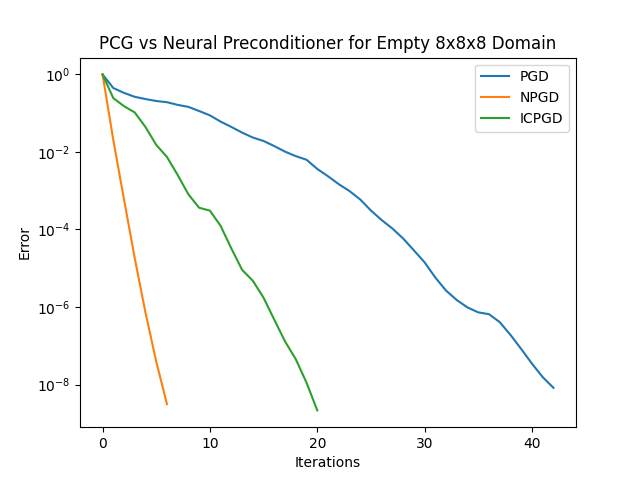
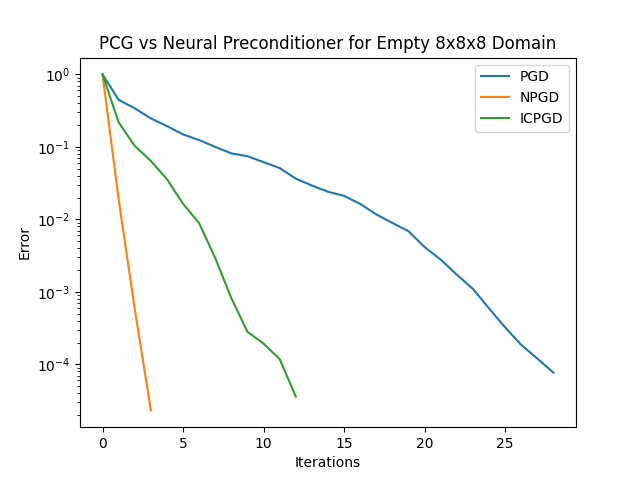
clean up training and evaluation

diff --git a/src/train.py b/src/train.py
@@ -4,9 +4,8 @@ import numpy as np
 import matplotlib.pyplot as plt
 import torch
 import scipy.sparse
-import torchsummary
 
-from src.vector_dataset import *
+from vector_dataset import *
 from torch.utils.data import DataLoader
 from torch.utils.data import Dataset
 from torchvision.transforms import ToTensor
@@ -233,6 +232,10 @@ if __name__ == "__main__":
     # parse --demo flag, if not there FLAGS.demo == False
     parser = argparse.ArgumentParser()
     parser.add_argument("-e", "--existing", action="store_true", default = False)
+    parser.add_argument("-b", "--batch", type = int, default = 4)
+    parser.add_argument("-c", "--epochs", type = int, default = 5)
+    parser.add_argument("-l", "--lr", type = float, default = 1e-4)
+
     FLAGS, unparsed = parser.parse_known_args()
 
     
@@ -240,8 +243,8 @@ if __name__ == "__main__":
     dim_x, dim_y, dim_z = 8, 8, 8
     
     # make models directory
-    if not os.path.exists("./models/"):
-        os.makedirs("./models/")
+    if not os.path.exists("../models/"):
+        os.makedirs("../models/")
     
     # define loss function
     loss_fn = cgd_loss_fn  # use paper defined loss
@@ -250,13 +253,14 @@ if __name__ == "__main__":
 
     # tweak these constants as you see fit, or get them through 'argparse'
     DEVICE = "cuda" if torch.cuda.is_available() else "cpu"
-    BATCH_SIZE = 1200
-    EPOCHS = 5
+    BATCH_SIZE = FLAGS.batch
+    EPOCHS = FLAGS.epochs
+    LR = FLAGS.lr
 
     domain_name = f"A_matrix_{dim_x}_{dim_y}_{dim_z}_"
 
     dataset = VectorDataset()
-    train_dataset, test_dataset = torch.utils.data.random_split(dataset, [0.95, 0.05]) 
+    train_dataset, test_dataset = torch.utils.data.random_split(dataset, [0.8, 0.2]) 
     train_dataloader = DataLoader(train_dataset, batch_size=BATCH_SIZE, num_workers=4, shuffle = True)
     test_dataloader =  DataLoader(test_dataset, batch_size=1, num_workers=4, shuffle = True)
     print("Dataset Loaded")
@@ -270,22 +274,15 @@ if __name__ == "__main__":
 
     torch.autograd.set_detect_anomaly(True)
 
-    # if(FLAGS.existing):
-    #     models_dir = f"./models/"
-    #     model_fn = "8_8_8_grid.pth"
-    #     model = torch.load(models_dir + model_fn).to(DEVICE)
-    # else:
-    #     model = CNN(dim_x, dim_y, dim_z).to(DEVICE)
-
     model = CNN(dim_x, dim_y, dim_z).to(DEVICE)
 
     if(FLAGS.existing):
-        models_dir = f"./models/"
-        model_fn = f"{dim_x}_{dim_y}_{dim_z}_grid_state_final_stg2.pth"
+        models_dir = f"../models/"
+        model_fn = f"{dim_x}_{dim_y}_{dim_z}_grid_state_16_mod.pth"
         model.load_state_dict(torch.load(models_dir + model_fn))
     
 
-    optimizer = torch.optim.AdamW(model.parameters(), lr=1e-4, amsgrad = True, eps=1e-10)
+    optimizer = torch.optim.AdamW(model.parameters(), lr=LR, amsgrad = True, eps=1e-10)
     scheduler = torch.optim.lr_scheduler.StepLR(optimizer, step_size=1, gamma=1)
     test_loss, train_loss = [], []
 
@@ -305,7 +302,7 @@ if __name__ == "__main__":
 
 
     # save the model
-    torch.save(model.state_dict(), f"./models/{dim_x}_{dim_y}_{dim_z}_grid_state_final_stg2.pth")
+    torch.save(model.state_dict(), f"../models/{dim_x}_{dim_y}_{dim_z}_grid_state_16_mod.pth")
     fig, axs = plt.subplots(1, 2, figsize=(15, 15))
     axs[0].plot(np.arange(1, len(train_loss) + 1), train_loss)
     axs[0].set_title("Train Loss")
@@ -317,4 +314,4 @@ if __name__ == "__main__":
     axs[1].set_xlabel("Epoch")
     axs[1].set_ylabel("Average Loss")
     plt.show()
-    fig.savefig("./test_train_loss.jpg")
+    fig.savefig("../plots/test_train_loss.jpg")

diff --git a/src/eval.py b/src/eval.py
@@ -4,8 +4,9 @@ import numpy as np
 import scipy
 import random
 import matplotlib.pyplot as plt
-from src.train import *
+from train import *
 import time
+import argparse
 
 
 def icholesky(A):
@@ -125,12 +126,19 @@ def neural_pgd(A, b:torch.Tensor, tol = 1e-16, max_it = 100):
 
 
 if __name__ == "__main__":
+    parser = argparse.ArgumentParser()
+    parser.add_argument("-t", "--tol", dest = "tol", type = float, default = 1e-4)
+    parser.add_argument("-d", "--domain", dest = "domain_type", type = str, default = "empty")
+    parser.add_argument("-f", "--filling_fraction", dest = "filling_fraction", type = float, default = 0)
+    FLAGS, unparsed = parser.parse_known_args()
+    
+    
     dim_x, dim_y, dim_z = 8, 8, 8
     DEVICE = "cuda" if torch.cuda.is_available() else "cpu"
     torch.set_default_dtype(torch.double)
 
-    domain_type = "random"
-    filling_fraction = 0.35
+    domain_type = FLAGS.domain_type
+    filling_fraction = FLAGS.filling_fraction
     
     fn_map = {"cube" : {"data suffix" : "cube", 
                         "plot title":"PCG vs Neural Preconditioner for 8x8x8 Domain with Cube",
@@ -158,7 +166,7 @@ if __name__ == "__main__":
     plot_title = fn_map[domain_type]["plot title"]
     save_fn = fn_map[domain_type]["save name"]
 
-    models_dir = f"./models/"
+    models_dir = f"../models/"
     model_fn = "8_8_8_grid_state_16_mod.pth"
     
         
@@ -167,14 +175,14 @@ if __name__ == "__main__":
     model.eval()
     matrix_fn = f"A_matrix_8_8_8_{data_suffix}"
     # load A matrix, its stored as COO
-    A = scipy.sparse.load_npz(f"./data/{matrix_fn}.npz")
+    A = scipy.sparse.load_npz(f"../data/{matrix_fn}.npz")
     
     # generate a random test vector
-    vectors = np.load(f"./data/{matrix_fn}_data.npy")
+    vectors = np.load(f"../data/{matrix_fn}_data.npy")
     idx = random.randint(0,vectors.shape[0] - 1)
     b = vectors[idx,:]
     # find solution to desired tolerance
-    tol = 1e-8
+    tol = FLAGS.tol
     
 
     
@@ -183,7 +191,7 @@ if __name__ == "__main__":
     # create a preconditioner
     dA = A.toarray()
     dA = dA[A.getnnz(0) > 0,:]
-    dA = dA[:,A.getnnz(1)>0]
+    dA = dA[:,A.getnnz(1)> 0]
     db = b[A.getnnz(1) > 0]
     R = np.sqrt(dA.diagonal())
     R = scipy.sparse.diags(R).tocsc()
@@ -197,7 +205,7 @@ if __name__ == "__main__":
     err = np.linalg.norm(db - dA.dot(x))
     pgd_result_str = f"PCGD finished in {its} iterations with residual {err}. It took {time_taken/its} seconds per it."
     
-    ################ Benchmark ICPCGD
+    ################ Benchmark ICPGD
     # create a preconditioner
     R = icholesky(dA.copy())
 
@@ -211,7 +219,7 @@ if __name__ == "__main__":
 
 
 
-    ################ Benchmark Neural PCGD
+    ################ Benchmark Neural PGD
     # convert matrix to pytorch sparse format
     A = torch.sparse_coo_tensor(np.array([A.row, A.col]), A.data, size = [dim_x * dim_y * dim_z, dim_x * dim_y * dim_z])
     A = A.to(DEVICE, dtype=torch.double)
@@ -239,5 +247,5 @@ if __name__ == "__main__":
     plt.ylabel("Error")
     plt.xlabel("Iterations")
     plt.legend()
-    plt.savefig(f"./plots/{save_fn}")
+    plt.savefig(f"../plots/{save_fn}")
     plt.show()

diff --git a/src/create_dataset.py b/src/create_dataset.py
@@ -1,5 +1,6 @@
 import numpy as np
 import argparse
+import matplotlib
 import matplotlib.pyplot as plt
 import scipy
 
@@ -21,7 +22,7 @@ def is_boundary(i, j, k): # check if cell belongs to the boundary
     return False
 
 
-def init_domain(boundary_type:str = "", filling_fraction:float = 0):
+def init_domain(domain_type:str = "", filling_fraction:float = 0):
     global domain
 
     filling_fraction = np.clip(filling_fraction, 0 ,1)
@@ -37,15 +38,15 @@ def init_domain(boundary_type:str = "", filling_fraction:float = 0):
             np.square(y - int(ly/2) + 1)))+ np.square(z - int(lz/2) + 1) <= 0.1 * np.sqrt(np.sum(np.square([lx,ly,lz])))
 
     # combine the objects into a single boolean array
-    if(boundary_type == "torus"):
+    if(domain_type == "torus"):
         domain = torus
-    elif(boundary_type == "sphere"):
+    elif(domain_type == "sphere"):
         domain = sphere
-    elif(boundary_type == "cube"):
+    elif(domain_type == "cube"):
         domain = cube
-    elif(boundary_type == "cube_small"):
+    elif(domain_type == "cube_small"):
         domain = cube_small
-    elif(boundary_type == "random"):
+    elif(domain_type == "random"):
         domain = np.zeros(lx * ly * lz)
 
         # Calculate the number of elements to fill
@@ -68,8 +69,8 @@ def init_domain(boundary_type:str = "", filling_fraction:float = 0):
     ax.voxels(domain, facecolors=colors, edgecolor='k')
 
     plt.show()
-    if(boundary_type != ""):
-        ax.get_figure().savefig(f"../geometries/{boundary_type}_boundary_{lx}_{ly}_{lz}.png")
+    if(domain_type != ""):
+        ax.get_figure().savefig(f"../geometries/{domain_type}_boundary_{lx}_{ly}_{lz}.png")
 
 
 def make_linear_system():
@@ -196,14 +197,15 @@ def main():
     parser = argparse.ArgumentParser()
     parser.add_argument("-t","--test", dest="train", action="store_false", default = True)
     parser.add_argument("-f","--fillfrac", dest="filling_fraction", type = float, default = 0)
-    parser.add_argument("-b", "--boundary", dest = "boundary_type", type = str, default = "")
+    parser.add_argument("-d", "--domain", dest = "domain_type", type = str, default = "")
 
     FLAGS, unparsed = parser.parse_known_args()
+    
     training = FLAGS.train
-    if(FLAGS.boundary_type == "random"):
-        FLAGS.boundary_type = FLAGS.boundary_type + "_ff_" + str(FLAGS.filling_fraction)
-    matrix_fn = f"A_matrix_{lx}_{ly}_{lz}_{FLAGS.boundary_type}"
-    init_domain(boundary_type = FLAGS.boundary_type, filling_fraction = FLAGS.filling_fraction)
+    if(FLAGS.domain_type == "random"):
+        FLAGS.domain_type = FLAGS.domain_type + "_ff_" + str(FLAGS.filling_fraction)
+    matrix_fn = f"A_matrix_{lx}_{ly}_{lz}_{FLAGS.domain_type}"
+    init_domain(domain_type = FLAGS.domain_type, filling_fraction = FLAGS.filling_fraction)
     make_linear_system()
 
 

diff --git a/src/vector_dataset.py b/src/vector_dataset.py
@@ -8,7 +8,7 @@ class VectorDataset(Dataset):
         self 
     ):
         # load training vectors
-        self.data_array = np.load("A_matrix_8_8_8__training.npy")
+        self.data_array = np.load("../data/A_matrix_8_8_8__training.npy")
 
 
     def __len__(self):
